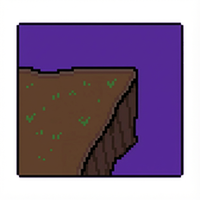
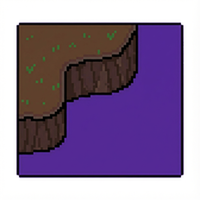
Adjust cliff corner-in SE/SW guidance

diff --git a/scripts/generate_assets.py b/scripts/generate_assets.py
@@ -61,11 +61,11 @@ CORNER_IN_ORIENTATIONS = [
     ),
     (
         "se",
-        "Concave (innie) corner: cliff legs run along the south and east edges. Low/drop is outside the corner on S+E; high ground/rim with grass is inside the corner in the northwest quadrant.",
+        "Concave (innie) corner: cliff runs in from the west edge and turns toward the north edge. Low/drop is outside the corner on S+E; high ground/rim with grass is inside the corner in the northwest quadrant.",
     ),
     (
         "sw",
-        "Concave (innie) corner: cliff legs run along the south and west edges. Low/drop is outside the corner on S+W; high ground/rim with grass is inside the corner in the northeast quadrant.",
+        "Concave (innie) corner: cliff runs in from the east edge and turns toward the north edge. Low/drop is outside the corner on S+W; high ground/rim with grass is inside the corner in the northeast quadrant.",
     ),
 ]
 
